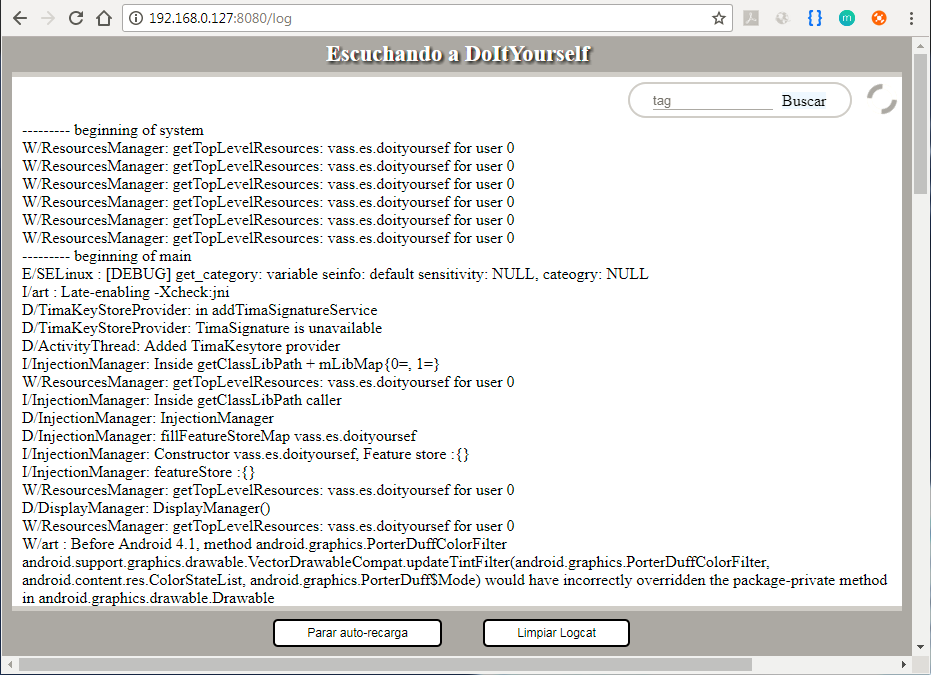
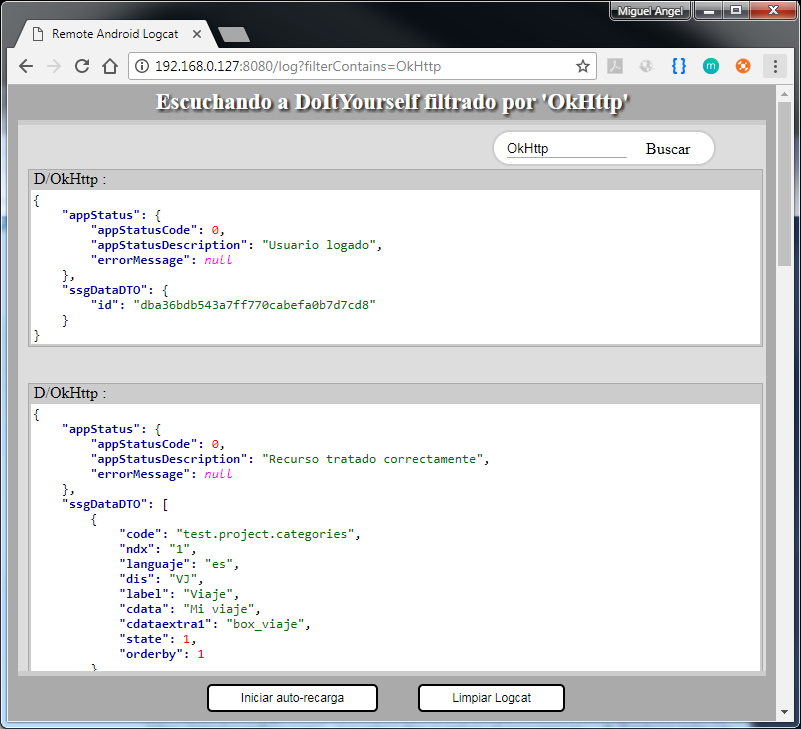
Added heuristics to catch multiline JSON response and hightlighting it.

diff --git a/src/main/java/micsoftware/es/remotelogcat/HighLighting.java b/src/main/java/micsoftware/es/remotelogcat/HighLighting.java
@@ -11,6 +11,10 @@ import org.json.JSONObject;
  */
 
 public class HighLighting {
+
+    //constants
+    private static final int MAX_LINES_JSON_BUFFER_HEURISTICS = 10;
+
     //Retrofit tags
     private static String TAG_END_REQUEST_RETROFIT = ": --> END";
     private static String TAG_START_REQUEST_RETROFIT = ": --> ";
@@ -21,7 +25,13 @@ public class HighLighting {
     private static String TAG_LINE_LABEL = "#LINE_LABEL#";
 
 
+    private static String tagBuffer = "";
+    private static String jsonBuffer = "";
+    private static int jsonBufferLines = 0;
+
     public static String applyHighLighting(String inputStr, int lineNumber) {
+
+        restoreStateBetweenRequests(lineNumber);
 
         if (inputStr!=null && !inputStr.isEmpty()) {
             //Requests
@@ -40,19 +50,47 @@ public class HighLighting {
             //JSON HightLighting
             else if(containsJSONValue(inputStr)){
                 return formatJSONLine(inputStr, lineNumber);
+
+            }else if (tryHeuristicJSONMessageOutbounds(inputStr)){
+                if (jsonBuffer.isEmpty()){
+                    tagBuffer = extractLineLabel(inputStr);
+                    jsonBuffer=inputStr.replace(tagBuffer, "");
+                }else{
+                    jsonBuffer+=inputStr.replace(tagBuffer, "");
+                }
+
+                //Stop contion: json completed
+                if(countMatches(jsonBuffer, "\\{")==countMatches(jsonBuffer, "\\}")){
+                    String jsonComplete = tagBuffer + jsonBuffer;
+                    jsonBuffer="";
+                    tagBuffer="";
+                    jsonBufferLines=0;
+                    return formatJSONLine(jsonComplete, lineNumber);
+                }
+
+                //Stop condition: avoid infinite buffer
+                jsonBufferLines++;
+                if (jsonBufferLines >= MAX_LINES_JSON_BUFFER_HEURISTICS){
+                    jsonBuffer="";
+                    tagBuffer="";
+                    jsonBufferLines=0;
+                    return jsonBuffer;
+                }
+                return "";
             }
         }
         return inputStr;
     }
 
+    //region standard json extraction
     private static String formatJSONLine(String inputStr, int lineNumber) {
         String jsonContentFormat = "<div class=\"jsonzone\"><span class=\"jsonlabel\" onclick=\"document.getElementById('idLineTag#LINE_NUMBER#').innerHTML=syntaxHighlight(JSON.stringify(JSON.parse(document.getElementById('idLineTag#LINE_NUMBER#').innerHTML),undefined,  4));onInputSearchClick();\">#LINE_LABEL#</span><pre style=\"background-color:white\"><code id=\"idLineTag#LINE_NUMBER#\">#JSON_CONTENT_VALUE#</code></pre></div>";
 
         if (containsJSONValue(inputStr)) {
             return jsonContentFormat
-                .replace(TAG_LINE_NUMBER, String.valueOf(lineNumber))
-                .replace(TAG_LINE_LABEL, extractLineLabel(inputStr))
-                .replace(TAG_JSON_CONTENT_VALUE, extractJSONValue(inputStr));
+                    .replace(TAG_LINE_NUMBER, String.valueOf(lineNumber))
+                    .replace(TAG_LINE_LABEL, extractLineLabel(inputStr))
+                    .replace(TAG_JSON_CONTENT_VALUE, extractJSONValue(inputStr));
         }else{
             return inputStr;
         }
@@ -68,7 +106,7 @@ public class HighLighting {
     }
 
     private static boolean containsJSONValue(String inputStr) {
-        if (inputStr!=null && !inputStr.isEmpty() && inputStr.contains("{") && inputStr.endsWith("}")){
+        if (inputStr!=null && !inputStr.isEmpty() && inputStr.contains("{") && inputStr.endsWith("}") && countMatches(inputStr, "\\{")==countMatches(inputStr, "\\}")){
             return isJSONValid(extractJSONValue(inputStr));  //parse & validate object
         }
         return false;
@@ -88,6 +126,42 @@ public class HighLighting {
         }
         return true;
     }
+
+    private static int countMatches(String inputStr, String strRegExToMatch){
+        return (inputStr!=null && inputStr.length()>0 && strRegExToMatch!=null && strRegExToMatch.length()>0)
+                ? inputStr.length() - inputStr.replaceAll(strRegExToMatch, "").length()
+                : 0;
+    }
+
+    //endregion
+
+
+    //region heuristic json extraction: json use several lines
+
+    /**
+     * Heuristics: Sometimes, a large response exceeds max weigth for the Android Logcat line. This method check if mixing several lines, is possiblo to create a valid JSON response
+     * @param inputStr current line
+     * @return it decides if this line can mix with others to create a unique valid response.
+     */
+    private static boolean tryHeuristicJSONMessageOutbounds(String inputStr) {
+        if (inputStr!=null && !inputStr.isEmpty() && inputStr.contains("{") &&inputStr.contains("}")
+                && (countMatches(inputStr, "\\{")>2 || countMatches(inputStr, "\\}")>2)  //hight chance that several lines have been used (multiline json)
+                && countMatches(inputStr, "\\{") != countMatches(inputStr, "\\}")) {
+            return true;
+        }
+        return false;
+    }
+
+    /*Avoid mixing heuristics state between several requests reseting static vars*/
+    private static void restoreStateBetweenRequests(int lineNumber) {
+        if (lineNumber == 0){
+            tagBuffer = "";
+            jsonBuffer = "";
+            jsonBufferLines = 0;
+        }
+    }
+    //end region
+
 
     public static String boldHighLighting(String inputStr){
         return "<b>" + inputStr + "</b>";

diff --git a/src/main/java/micsoftware/es/remotelogcat/NetworkUtils.java b/src/main/java/micsoftware/es/remotelogcat/NetworkUtils.java
@@ -36,7 +36,7 @@ public class NetworkUtils {
             }
         }
         if (TextUtils.isEmpty(actualConnectedToNetwork)) {
-            actualConnectedToNetwork = getNetworkInterfaceIpAddress(context);
+            actualConnectedToNetwork = getNetworkInterfaceIpAddress();
         }
         if (TextUtils.isEmpty(actualConnectedToNetwork)) {
             actualConnectedToNetwork = "127.0.0.1";
@@ -57,7 +57,7 @@ public class NetworkUtils {
 
 
     @Nullable
-    private static String getNetworkInterfaceIpAddress(Context context) {
+    private static String getNetworkInterfaceIpAddress() {
         try {
             for (Enumeration<NetworkInterface> en = NetworkInterface.getNetworkInterfaces(); en.hasMoreElements(); ) {
                 NetworkInterface networkInterface = en.nextElement();

diff --git a/README.md b/README.md
@@ -19,7 +19,7 @@ You only need to follow these 3 steps:
     dependencies {
         compile fileTree(include: ['*.jar'], dir: 'libs')
         ...
-        //RemoteLogCat
+        //RemoteLogcat
         compile(name: "remotelogcat_v1.1", ext: 'aar')
 }
 ```
